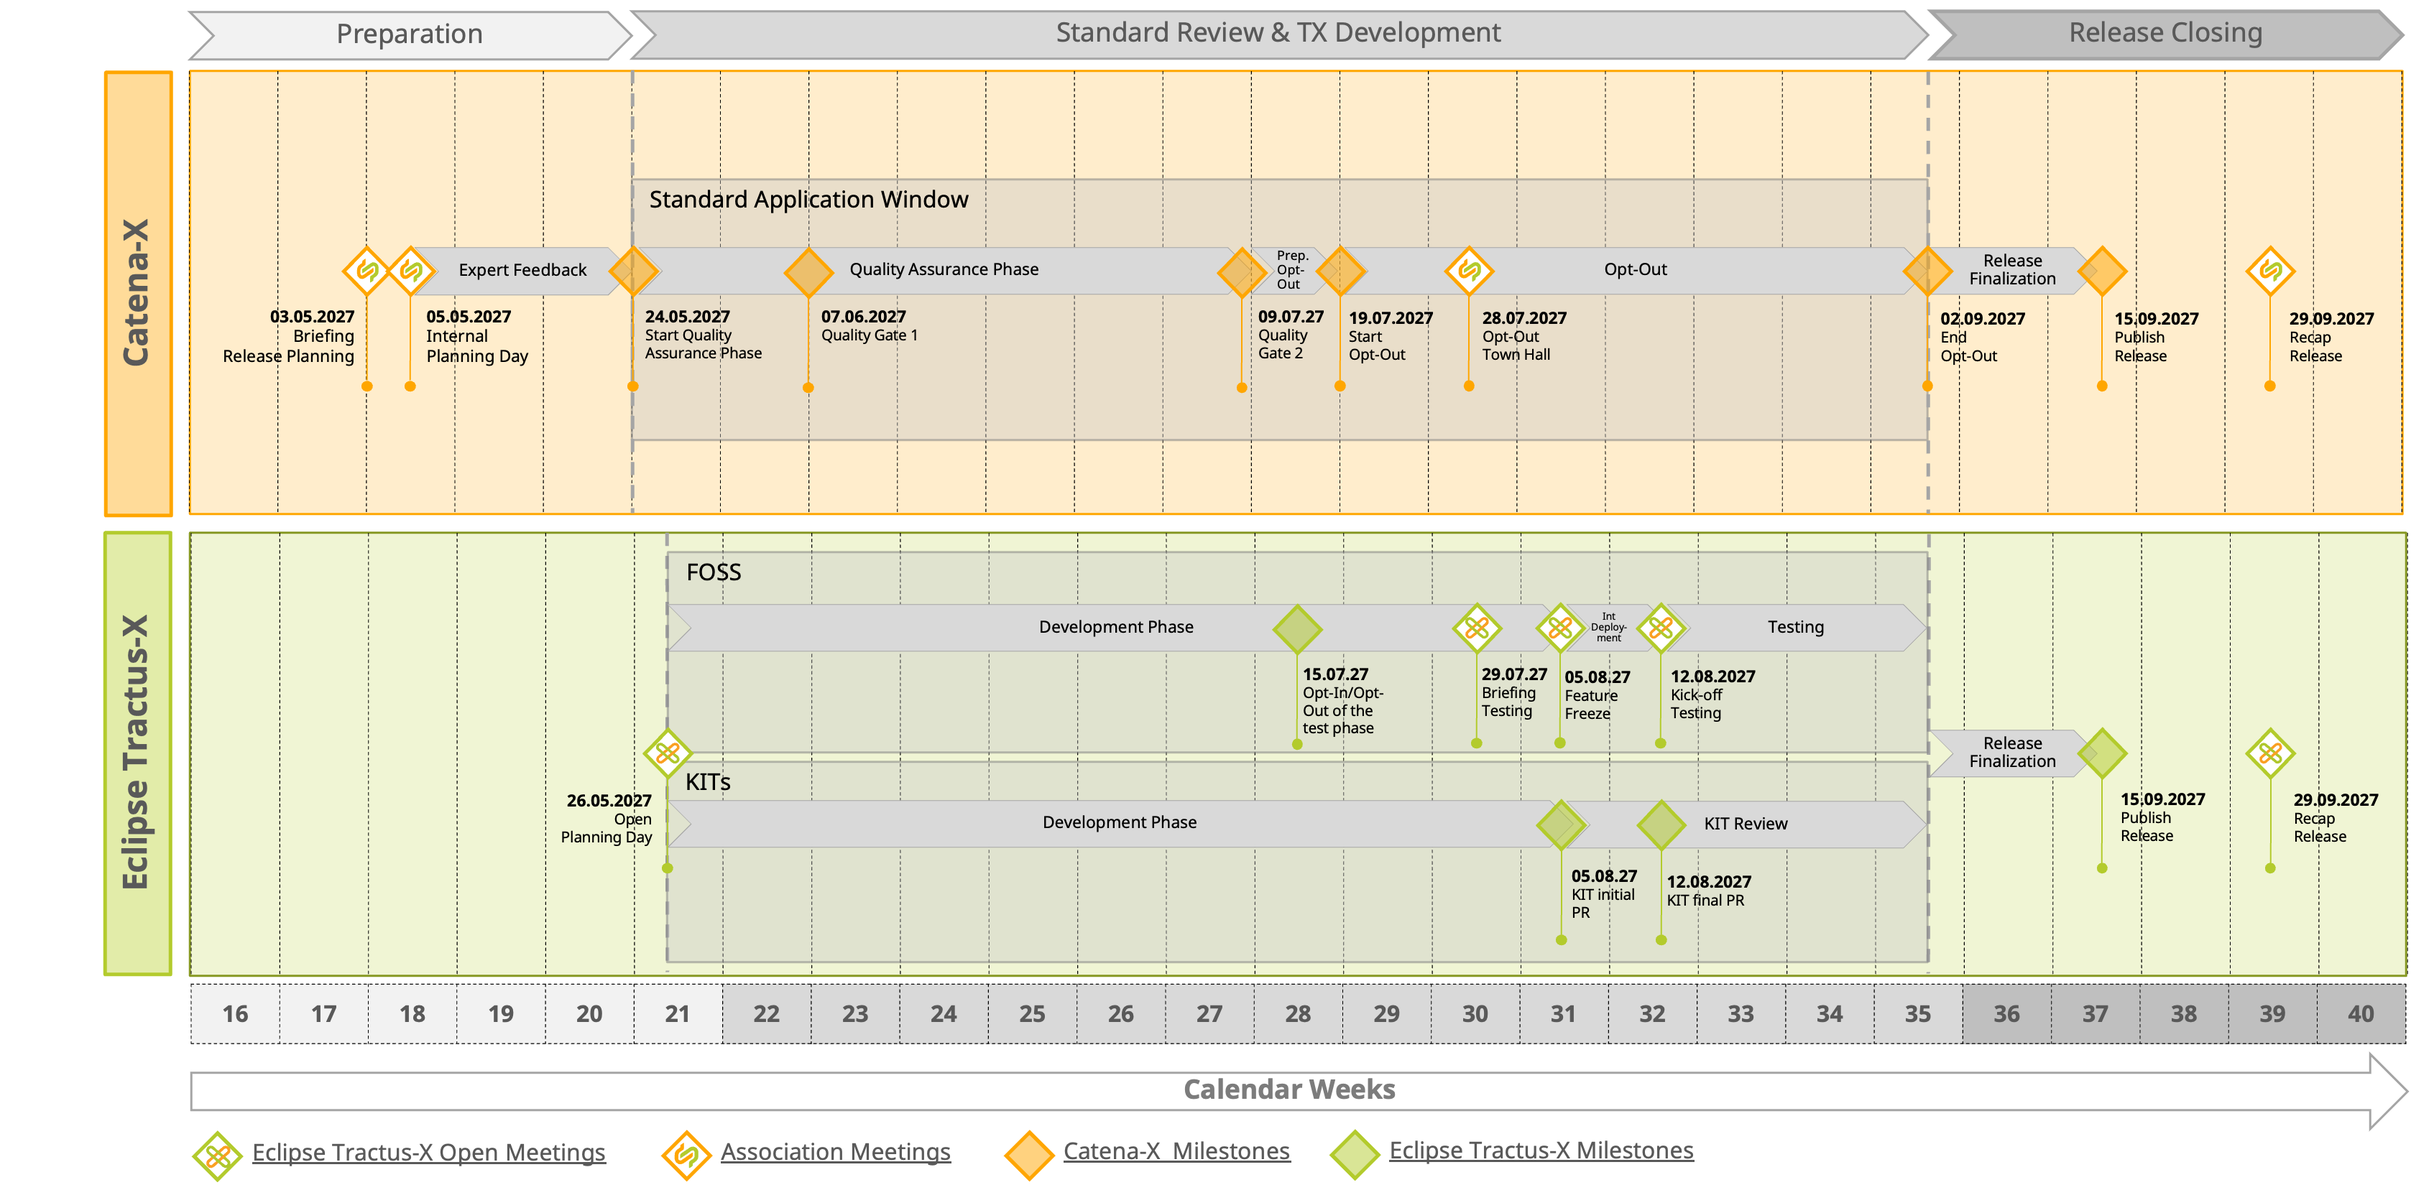
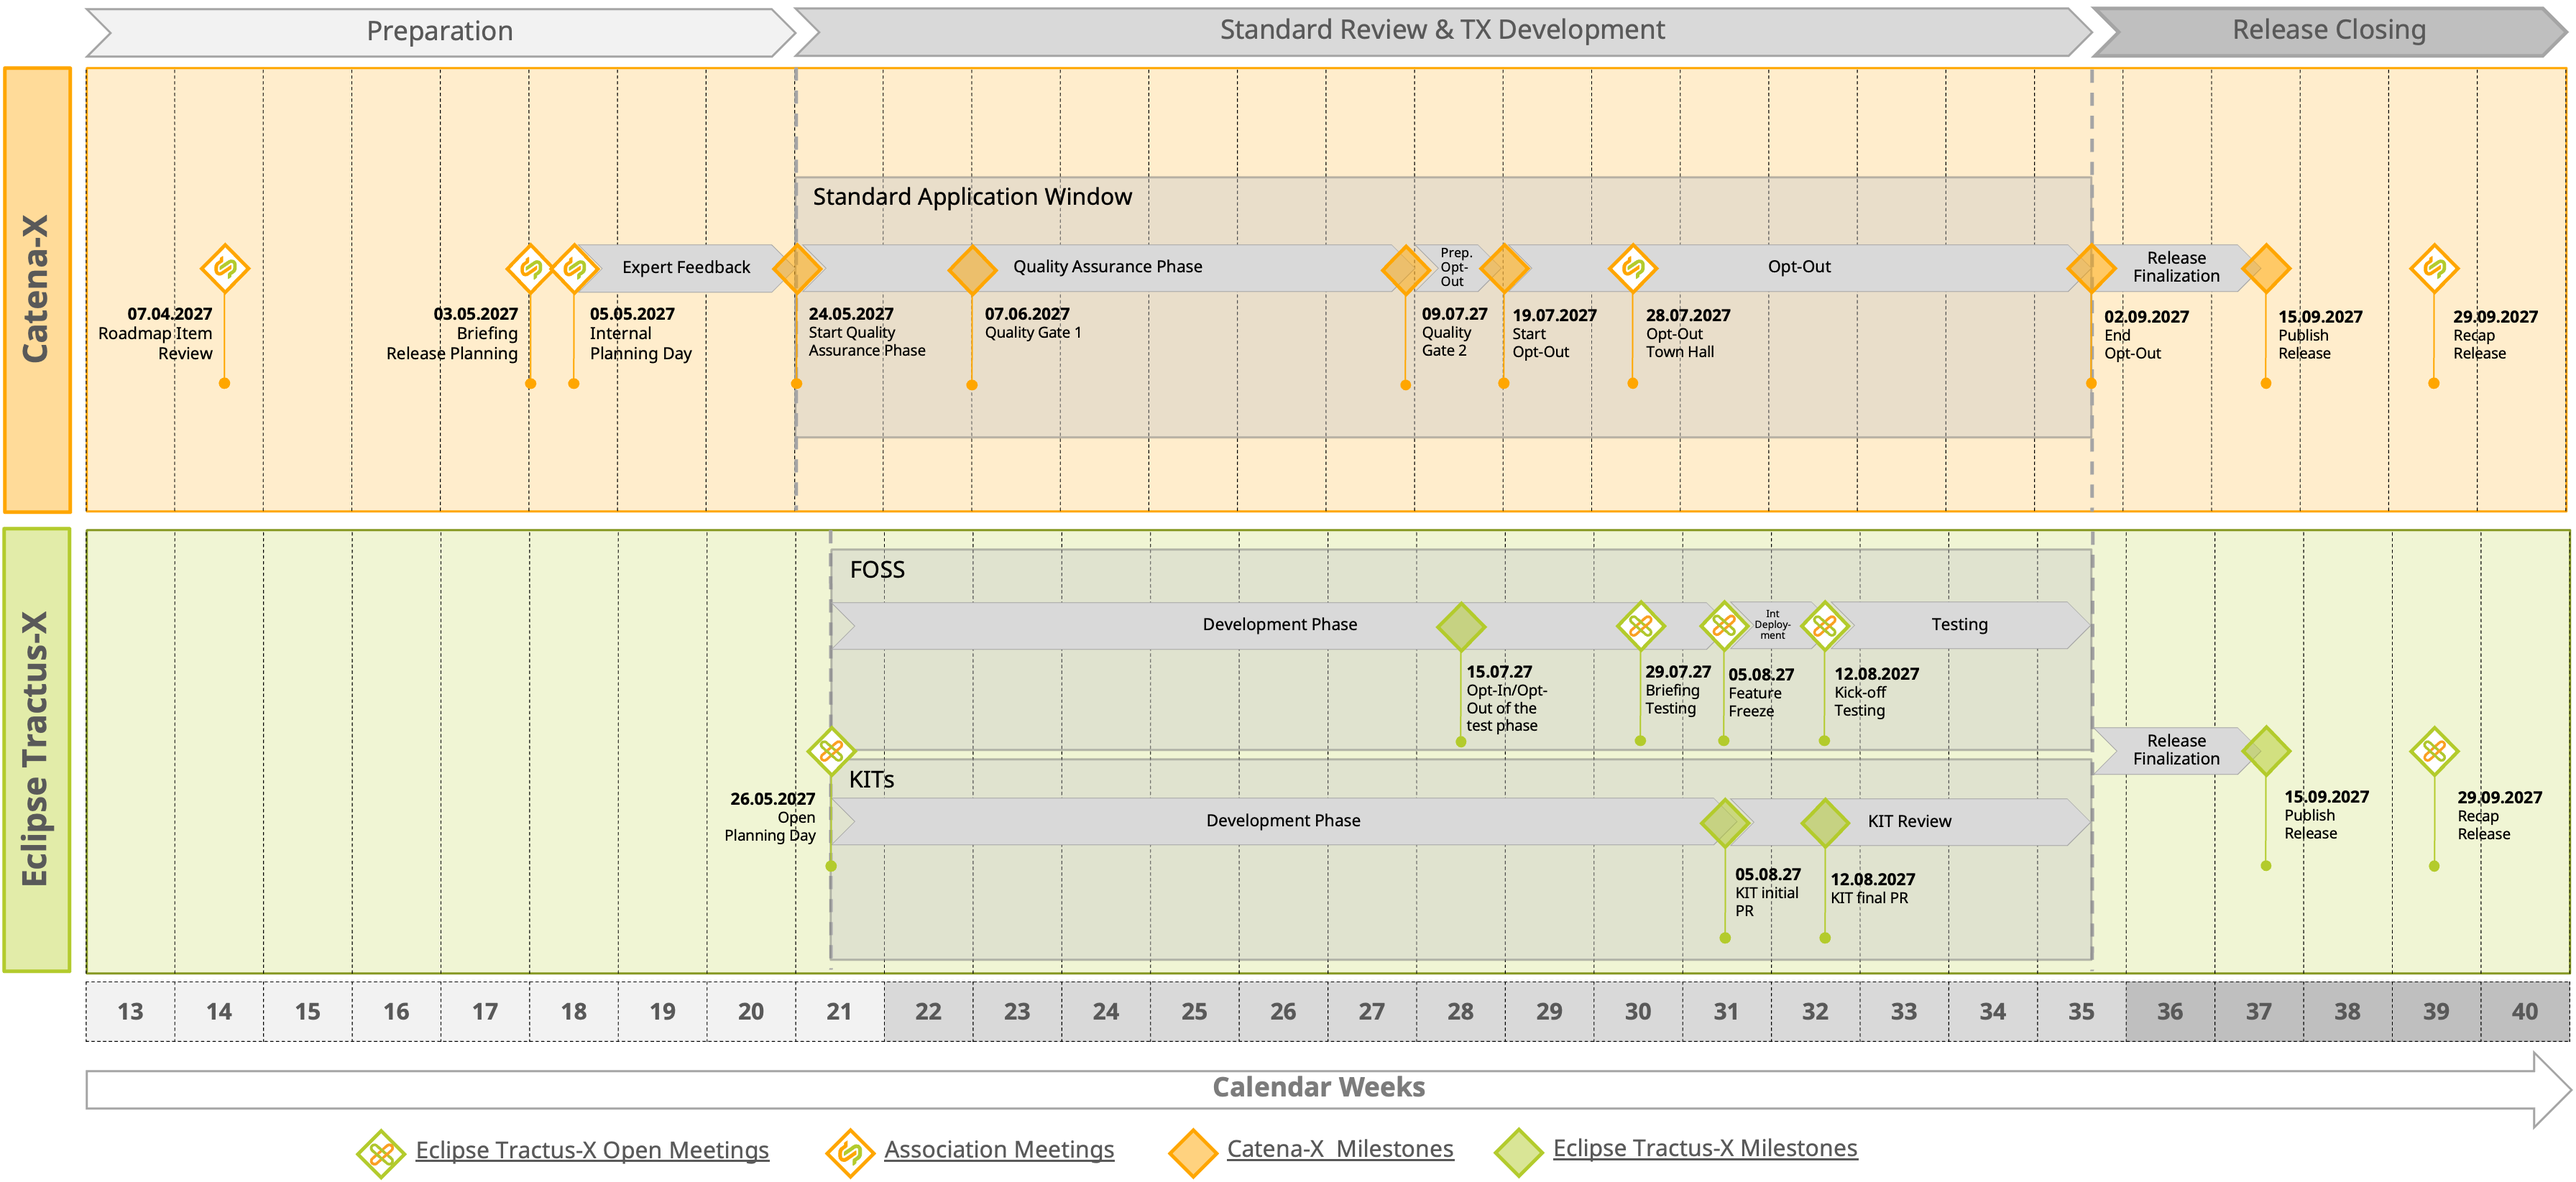
Update timelines

diff --git a/src/pages/timelines.md b/src/pages/timelines.md
@@ -28,21 +28,6 @@ Each phase contributes to transparency, alignment, and coordinated delivery acro
 
 ---
 
-### Catena-X Neptune, incl. Eclipse Tractus-X Release 26.06 & 26.09
-
-Named after the planet Neptune, CX-Neptune symbolizes depth, stability, and the exploration of new frontiers within the Catena-X data space.
-As a major release, Neptune sets the strategic direction and introduces key architectural foundations that shape the further evolution of the ecosystem.
-
-Neptune therefore serves as the central anchor, establishing the core innovations that are gradually refined, stabilized, and extended throughout the cycle.
-
-[![Timeline for Release 26.06](@site/static/img/timelines/cx-timeline-26.06.png)](@site/static/img/timelines/cx-timeline-26.06.png)
-*Timeline for Release 26.06*
-
-[![Timeline for Release 26.09](@site/static/img/timelines/cx-timeline-26.09.png)](@site/static/img/timelines/cx-timeline-26.09.png)
-*Timeline for Release 26.09*
-
----
-
 ### Catena-X Proteus, incl. Eclipse Tractus-X Release 27.03
 
 Following the major release CX-Neptune, CX-Proteus is directly connected to its parent release, as Proteus is one of Neptune’s moons.
@@ -127,8 +112,9 @@ As with every major release, it represents an opportunity to introduce new ideas
 
 | Phase/Milestone     | Title                                       | Start date | End date    |
 |---------------------|---------------------------------------------|------------|-------------|
+| Milestone           | Roadmap Item Proposal                       | 13.01.2027 |  13.01.2027 |
 | Milestone           | Briefing Release Planning                   | 01.02.2027 |  01.02.2027 |
-| Milestone           | Internal Planning Day                       | 03.02.2027 |  03.02.2027 |
+| Milestone           | Internal Standard Planning Day              | 03.02.2027 |  03.02.2027 |
 | Phase               | Expert Feedback                             | 03.02.2027 |  21.02.2027 |
 | Phase               | Quality Assurance Phase                     | 22.02.2027 |  11.04.2027 |
 | Milestone           | Quality Gate 1                              | 09.03.2027 |  09.03.2027 |
@@ -170,8 +156,9 @@ As with every major release, it represents an opportunity to introduce new ideas
 
 | Phase/Milestone     | Title                                       | Start date | End date    |
 |---------------------|---------------------------------------------|------------|-------------|
+| Milestone           | Roadmap Item Review                         | 07.04.2027 |  07.04.2027 |
 | Milestone           | Briefing Release Planning                   | 03.05.2027 |  03.05.2027 |
-| Milestone           | Internal Planning Day                       | 05.05.2027 |  05.05.2027 |
+| Milestone           | Internal Standard Planning Day              | 05.05.2027 |  05.05.2027 |
 | Phase               | Expert Feedback                             | 05.05.2027 |  23.05.2027 |
 | Phase               | Quality Assurance Phase                     | 24.05.2027 |  11.07.2027 |
 | Milestone           | Quality Gate 1                              | 07.06.2027 |  07.06.2027 |
@@ -220,8 +207,9 @@ It strengthens the ecosystem by stabilizing innovations, improving quality, and 
 
 | Phase/Milestone     | Title                                       | Start date | End date    |
 |---------------------|---------------------------------------------|------------|-------------|
+| Milestone           | Roadmap Item Proposal                       | 30.06.2027 |  30.06.2027 |
 | Milestone           | Briefing Release Planning                   | 26.07.2027 |  26.07.2027 |
-| Milestone           | Internal Planning Day                       | 28.07.2027 |  28.07.2027 |
+| Milestone           | Internal Standard Planning Day              | 28.07.2027 |  28.07.2027 |
 | Phase               | Expert Feedback                             | 28.07.2027 |  15.08.2027 |
 | Phase               | Quality Assurance Phase                     | 16.08.2027 |  03.10.2027 |
 | Milestone           | Quality Gate 1                              | 30.08.2027 |  30.08.2027 |
@@ -269,6 +257,58 @@ The timeline is structured into three overarching sections - **Preparation**, **
 The Preparation section covers the activities that take place **after the standard has already been fully written** by the responsible Expert Group or Committee. It comprises the **Briefing Release Planning**, the **Internal Planning Day**, and the **Expert Feedback Phase**.
 
 During this phase, Expert Groups and Committees **present their completed standards or work** to the wider community and collect **final feedback** before the formal review process begins. The Preparation section therefore ensures that all standard candidates are aligned, transparent, and ready to enter the Standard Review process.
+
+---
+
+#### Roadmap Item Proposal
+
+The Roadmap Item Proposal is a dedicated **meeting** held in the **first half of each ecosystem release** (e.g., XX.06 or XX.12). While the Internal Planning Day focuses on standards, the Roadmap Item Proposal makes the **goals behind them** visible. These are the roadmap items each committee and expert group works towards for the ecosystem release.
+
+Participation is **mandatory for all committees and expert groups**.
+
+:::tip[Cadence within an ecosystem release]
+
+Roadmap items are set once per ecosystem release and their status is checked midway:
+
+- **First half of the ecosystem release:** Roadmap Item Proposal, in which goals are presented and set.
+- **Second half of the ecosystem release (e.g., XX.09):** [Roadmap Item Review](#roadmap-item-review), a status check
+
+:::
+
+Objectives of the meeting:
+
+- Creating **transparency** on the goals each committee and expert group is working towards.
+- **Identifying overlaps and dependencies early**, while there is still time to react
+- **Connecting groups** with overlapping goals so they can agree on how to work together.
+- **Committing** each committee to its goals for the ecosystem release.
+
+**Content of the meeting:**
+
+- **Walkthrough of the Release Roadmap Board** on GitHub, item by item.
+- **Presentation of each roadmap item** by the responsible committee or expert group along three questions:
+  - **What is the goal?** The outcome the group works towards.
+  - **Why does it matter?** The value it brings to the ecosystem.
+  - **Who drives it?** The trigger, and why it matters now.
+- **Collaborative discussion**, in which other groups ask questions and flag where goals touch theirs.
+
+:::info
+Every committee and expert group must create **at least one roadmap item** before the meeting. A roadmap item is a **shared goal, not a standard**. It does not have to ship anything but tracks the broader goal a group works on towards an ecosystem release. Groups without a roadmap item will be asked whether they are still working towards a broader goal and are still needed in their current form. **TC4S and TC4M are exempt**, as they run the same process every release.
+:::
+
+:::note
+The meeting covers **only roadmap items and their goals**. Sub-issues, standards and single tasks are not part of this session.
+:::
+
+---
+
+#### Roadmap Item Review
+
+The Roadmap Item Review is a dedicated **meeting** held in the **second half of each ecosystem release** (e.g., XX.03 or XX.09). It serves as a **status check** of the roadmap items presented in the [Roadmap Item Proposal](#roadmap-item-proposal) during the first half of the same ecosystem release.
+
+Objectives of the meeting:
+
+- Checking the **status of the roadmap items** and goals set in the first half of the ecosystem release.
+- Maintaining **transparency** on the progress of each committee and expert group midway through the ecosystem release.
 
 ---
 
